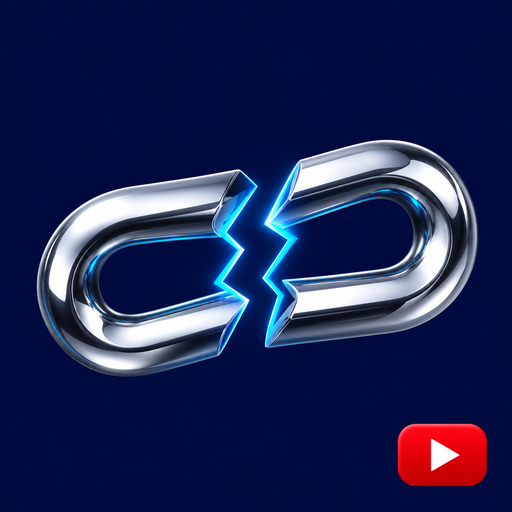
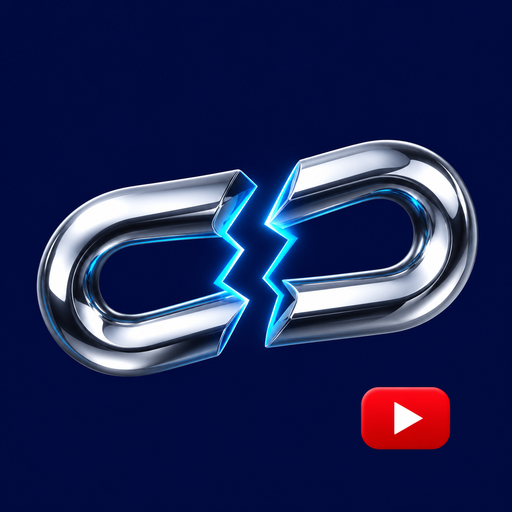
feat(ui): shared Jailbreak UI, identical to the WebKit fork
Same layout and values as ps5-webkit-autoloader-x: plain Jailbreak icon
(src/jb.png), wordmark, variant line, flat log panel, status line over a
thin track (one line, ellipsis), version footer. Dark, flat, 6px radii.
Tile icon: play badge moved up and in, clear of the rounded corner.

Changed region(s): [[0.6875, 0.75, 0.9688, 0.9688]]

diff --git a/src/main.js b/src/main.js
@@ -123,6 +123,20 @@ function trigger() {
         }
     };
 
+    // Fork: Jailbreak shared UI. Same layout and values as the WebKit loader
+    // (frontend/autoloader/theme-x.css in ps5-webkit-autoloader-x): icon, wordmark,
+    // variant line, log panel, status line over a thin progress track, footer.
+    // Drawn at 1920x1080 and scaled to the screen, like upstream's UI.
+    const X = {
+        bg: "#0a0e1c", surface: "#11172b", track: "#1c2440", outline: "#232c4a",
+        text: "#e6ebf5", muted: "#8a95b4", faint: "#5d6889",
+        primary: "#4da3ff", primarySoft: "#8fc2ff",
+        ok: "#4ccf8f", warn: "#f2c14e", err: "#ef6b73",
+        sans: "-apple-system, 'Helvetica Neue', Helvetica, Arial, sans-serif",
+        mono: "'SFMono-Regular', Menlo, Monaco, 'Cascadia Mono', monospace"
+    };
+    window.autoloader_ui_colors = X;
+
     window.autoloader_ui = function() {
         if (document.getElementById("autoloader_ui")) {
             const existing_ui = document.getElementById("autoloader_ui");
@@ -133,128 +147,90 @@ function trigger() {
         const baseHeight = 1080;
         const scale = window.innerWidth / baseWidth;
 
-        const autoloader_ui = document.createElement("div");
-        autoloader_ui.id = "autoloader_ui";
-        autoloader_ui.style.position = "fixed";
-        autoloader_ui.style.top = "0px";
-        autoloader_ui.style.left = "0px";
-        autoloader_ui.style.width = baseWidth + "px";
-        autoloader_ui.style.height = baseHeight + "px";
-        autoloader_ui.style.transform = "scale(" + scale + ")";
-        autoloader_ui.style.transformOrigin = "top left";
-        autoloader_ui.style.zIndex = "9999";
-        // Fork: Jailbreak theme (deep navy, chrome, electric-blue glow), matching the icon.
-        autoloader_ui.style.backgroundColor = "#01041c";
-        autoloader_ui.style.backgroundImage = "radial-gradient(circle at 50% 30%, #0b1d6b 0%, #030a3d 45%, #01041c 100%)";
-        autoloader_ui.style.border = "none";
-        autoloader_ui.style.padding = "5px";
-        autoloader_ui.style.fontFamily = "Arial, sans-serif";
-        autoloader_ui.style.fontSize = "8px";
+        function el(tag, styles, text) {
+            const node = document.createElement(tag);
+            for (const k in styles) node.style[k] = styles[k];
+            if (text) node.textContent = text;
+            return node;
+        }
 
-        // Fork: icon0.png sits next to splash.html (the updater copies it to the tile too).
-        const logo = document.createElement("img");
-        logo.src = "icon0.png";
-        logo.style.display = "block";
-        logo.style.width = "120px";
-        logo.style.height = "120px";
-        logo.style.margin = "40px auto 0 auto";
-        logo.style.borderRadius = "26px";
-        logo.style.boxShadow = "0 0 0 2px rgba(90, 170, 255, 0.35), 0 0 40px rgba(42, 168, 255, 0.45)";
+        const autoloader_ui = el("div", {
+            position: "fixed", top: "0px", left: "0px",
+            width: baseWidth + "px", height: baseHeight + "px",
+            transform: "scale(" + scale + ")", transformOrigin: "top left",
+            zIndex: "9999", backgroundColor: X.bg, color: X.text,
+            fontFamily: X.sans, boxSizing: "border-box", paddingTop: "56px"
+        });
+        autoloader_ui.id = "autoloader_ui";
+
+        // Plain Jailbreak icon (jb.png sits next to splash.html); hidden if it can't load.
+        const logo = el("img", {
+            display: "block", width: "96px", height: "96px",
+            margin: "0 auto 18px auto", borderRadius: "10px"
+        });
+        logo.src = "jb.png";
         logo.onerror = function() { if (logo.parentNode) logo.parentNode.removeChild(logo); };
         autoloader_ui.appendChild(logo);
 
-        const title = document.createElement("div");
-        title.textContent = "JAILBREAK";
-        title.style.fontFamily = "Arial, sans-serif";
-        title.style.textAlign = "center";
-        title.style.fontWeight = "800";
-        title.style.letterSpacing = "0.32em";
-        title.style.paddingLeft = "0.32em";
-        title.style.color = "#e9eef7";
-        title.style.backgroundImage = "linear-gradient(90deg, #ffffff 0%, #c9d3e3 45%, #7f8ca3 55%, #f2f5fa 100%)";
-        title.style.webkitBackgroundClip = "text";
-        title.style.webkitTextFillColor = "transparent";
-        title.style.textShadow = "0 0 28px rgba(42, 168, 255, 0.35)";
-        title.style.fontSize = "60px";
-        title.style.marginTop = "18px";
-        autoloader_ui.appendChild(title);
+        autoloader_ui.appendChild(el("div", {
+            textAlign: "center", fontSize: "44px", fontWeight: "600",
+            letterSpacing: "0.24em", paddingLeft: "0.24em", lineHeight: "1.1", color: X.text
+        }, "JAILBREAK"));
+        autoloader_ui.appendChild(el("div", {
+            textAlign: "center", marginTop: "8px", fontSize: "18px", fontWeight: "500",
+            letterSpacing: "0.12em", textTransform: "uppercase", color: X.primarySoft
+        }, "Y2JB · Payload Manager X"));
 
-        const subtitle = document.createElement("div");
-        subtitle.textContent = "Y2JB \u00b7 Payload Manager X";
-        subtitle.style.fontFamily = "Arial, sans-serif";
-        subtitle.style.textAlign = "center";
-        subtitle.style.fontWeight = "600";
-        subtitle.style.letterSpacing = "0.18em";
-        subtitle.style.textTransform = "uppercase";
-        subtitle.style.color = "#5ad8ff";
-        subtitle.style.fontSize = "24px";
-        subtitle.style.marginTop = "4px";
-        autoloader_ui.appendChild(subtitle);
-
-        const logWrapper = document.createElement("div");
-        logWrapper.style.width = "62%";
-        logWrapper.style.height = "50%";        
-        logWrapper.style.position = "relative";
-        logWrapper.style.margin = "20px auto 0 auto";
-        logWrapper.style.padding = "0px";
-        logWrapper.style.color = "#9fb1d6";
-        logWrapper.style.backgroundColor = "rgba(2, 8, 40, 0.88)";
-        logWrapper.style.fontFamily = "monospace";
-        logWrapper.style.fontSize = "28px";
-        logWrapper.style.overflow = "hidden";
-        logWrapper.style.border = "2px solid rgba(90, 170, 255, 0.35)";
-        logWrapper.style.borderRadius = "16px";
-        logWrapper.style.boxShadow = "inset 0 0 32px rgba(42, 168, 255, 0.18)";
-        logWrapper.style.overflowY = "scroll";
+        const logWrapper = el("div", {
+            width: "1200px", height: "520px", position: "relative", boxSizing: "border-box",
+            margin: "28px auto 0 auto", padding: "0px",
+            backgroundColor: X.surface, border: "1px solid " + X.outline, borderRadius: "6px",
+            color: X.muted, fontFamily: X.mono, fontSize: "22px", lineHeight: "1.5",
+            overflow: "hidden", overflowY: "scroll"
+        });
         logWrapper.id = "logWrapper";
         autoloader_ui.appendChild(logWrapper);
 
-        const logContainer = document.createElement("div");
+        const logContainer = el("div", { position: "absolute", bottom: "0", padding: "20px 24px" });
         logContainer.id = "logContainer";
-        logContainer.style.position = "absolute";
-        logContainer.style.bottom = "0";
-        logContainer.style.padding = "10px";
         logWrapper.appendChild(logContainer);
 
-        const progressBarContainer = document.createElement("div");
-        progressBarContainer.style.width = "60%";
-        progressBarContainer.style.height = "90px";
-        progressBarContainer.style.backgroundColor = "rgba(2, 8, 40, 0.9)";
-        progressBarContainer.style.border = "2px solid rgba(90, 170, 255, 0.4)";
-        progressBarContainer.style.borderRadius = "50px";
-        progressBarContainer.style.boxShadow = "0 0 24px rgba(42, 168, 255, 0.25)";
-        progressBarContainer.style.margin = "0 auto";
-        progressBarContainer.style.overflow = "hidden";
-        progressBarContainer.style.position = "relative";
-        progressBarContainer.style.marginTop = "30px";
+        // Status line above a thin track.
+        const progressBarContainer = el("div", {
+            width: "1200px", height: "46px", position: "relative", margin: "28px auto 0 auto"
+        });
         autoloader_ui.appendChild(progressBarContainer);
 
-        const progressLabel = document.createElement("div");
+        const progressLabel = el("div", {
+            position: "absolute", top: "0", left: "0", right: "0", height: "32px",
+            fontSize: "20px", fontWeight: "500", color: X.text,
+            whiteSpace: "nowrap", overflow: "hidden", textOverflow: "ellipsis"
+        }, "Loading...");
         progressLabel.id = "progressLabel";
-        progressLabel.textContent = "Loading...";
-        progressLabel.style.position = "absolute";
-        progressLabel.style.top = "50%";
-        progressLabel.style.left = "50%";
-        progressLabel.style.transform = "translate(-50%, -50%)";
-        progressLabel.style.color = "#fff";
-        progressLabel.style.letterSpacing = "0.04em";
-        progressLabel.style.textShadow = "0 1px 3px rgba(1, 4, 28, 0.9)";
-        progressLabel.style.fontSize = "42px";
-        progressLabel.style.fontWeight = "bold";
-        progressLabel.style.zIndex = "1";
         progressBarContainer.appendChild(progressLabel);
 
-        const progressBar = document.createElement("div");
+        const track = el("div", {
+            position: "absolute", left: "0", right: "0", bottom: "0", height: "6px",
+            borderRadius: "4px", backgroundColor: X.track, overflow: "hidden"
+        });
+        progressBarContainer.appendChild(track);
+
+        const progressBar = el("div", {
+            width: "100%", height: "100%", backgroundColor: X.primary,
+            transformOrigin: "left", transform: "scaleX(0)", transition: "transform 0.5s ease-in-out"
+        });
         progressBar.id = "progressBar";
-        progressBar.style.width = "100%";
-        progressBar.style.height = "100%";
-        progressBar.style.backgroundColor = "#2aa8ff";
-        progressBar.style.backgroundImage = "linear-gradient(90deg, #1a5cff 0%, #2aa8ff 55%, #5ad8ff 100%)";
-        progressBar.style.boxShadow = "0 0 18px rgba(90, 216, 255, 0.75)";
-        progressBar.style.transformOrigin = "left";
-        progressBar.style.transform = "scaleX(0)";
-        progressBar.style.transition = "transform 0.5s ease-in-out";
-        progressBarContainer.appendChild(progressBar);
+        track.appendChild(progressBar);
+
+        // Footer: version and source, like the WebKit pages.
+        const footer = el("div", {
+            position: "absolute", left: "0", right: "0", bottom: "28px", textAlign: "center",
+            fontSize: "14px", lineHeight: "1.6", color: X.faint
+        });
+        footer.appendChild(el("div", {}, "Y2JB Autoloader X " + autoloader_version +
+            ", based on Y2JB Autoloader " + upstream_version + " by PLK"));
+        footer.appendChild(el("div", {}, "Free and open source: github.com/bsk193/ps5-y2jb-autoloader-x"));
+        autoloader_ui.appendChild(footer);
 
         document.body.appendChild(autoloader_ui);
     };
@@ -278,14 +254,15 @@ function trigger() {
         const logContainer = document.getElementById("logContainer");
         if (logContainer) {
             const logEntry = document.createElement("div");
+            const X = window.autoloader_ui_colors;
             if (type === "error") {
-                logEntry.style.color = "#ff5c7a";
+                logEntry.style.color = X.err;
             } else if (type === "success") {
-                logEntry.style.color = "#55f0b5";
+                logEntry.style.color = X.ok;
             } else if (type === "warning") {
-                logEntry.style.color = "#ffd166";
+                logEntry.style.color = X.warn;
             } else {
-                logEntry.style.color = "#9fb1d6";
+                logEntry.style.color = X.muted;
             }
             logEntry.textContent = message;
             logContainer.appendChild(logEntry);

diff --git a/src/splash.html b/src/splash.html
@@ -12,8 +12,8 @@
     <style>
         body {
             font-family: monospace;
-            background: #01041c; /* fork: Jailbreak theme navy */
-            color: #9fb1d6;
+            background: #0a0e1c; /* fork: Jailbreak shared UI background */
+            color: #8a95b4;
             margin: 0;
             padding: 0;
             overflow: hidden;

diff --git a/FORK.md b/FORK.md
@@ -26,8 +26,8 @@ Manager). No exploit logic is changed.
 | `.gitmodules`, `third_party/ps5-unified-autoloader` | URL → `bsk193/ps5-unified-autoloader-x` (path kept as upstream's to keep merges small) |
 | `scripts/download_deps.sh` | Release repo → `bsk193/ps5-unified-autoloader-x` |
 | `src/update.js` | Update file is `y2jb_x_update.zip` (`UPDATE_ZIP_NAME`), so it coexists with upstream |
-| `src/main.js`, `src/splash.html` | Jailbreak theme (navy, chrome wordmark, blue glow, icon); log "Y2JB Autoloader X vN, based on Y2JB Autoloader vX by PLK" |
-| `src/icon0.png` | Jailbreak icon: broken chain + play badge, 512x512 (the updater writes it to the YouTube tile) |
+| `src/main.js`, `src/splash.html`, `src/jb.png` | Jailbreak shared UI, identical to the WebKit fork's (dark, flat, small radii, plain icon `jb.png`, version footer); log "Y2JB Autoloader X vN, based on Y2JB Autoloader vX by PLK" |
+| `src/icon0.png` | Homescreen tile icon: broken chain + play badge, 512x512 (the updater writes it to the YouTube tile on each successful jailbreak; shows after a reboot) |
 | `Makefile` | Fork version hook (`X_VERSION`); `VERSION` stays upstream's |
 | `tools/fork_version.sh`, `tools/release.ps1` | Fork versioning (see below) |
 | `.github/workflows/` | `build.yml` (every push/PR) and tag-driven `release.yml` replace `dev.yml`/`stable.yml` |
